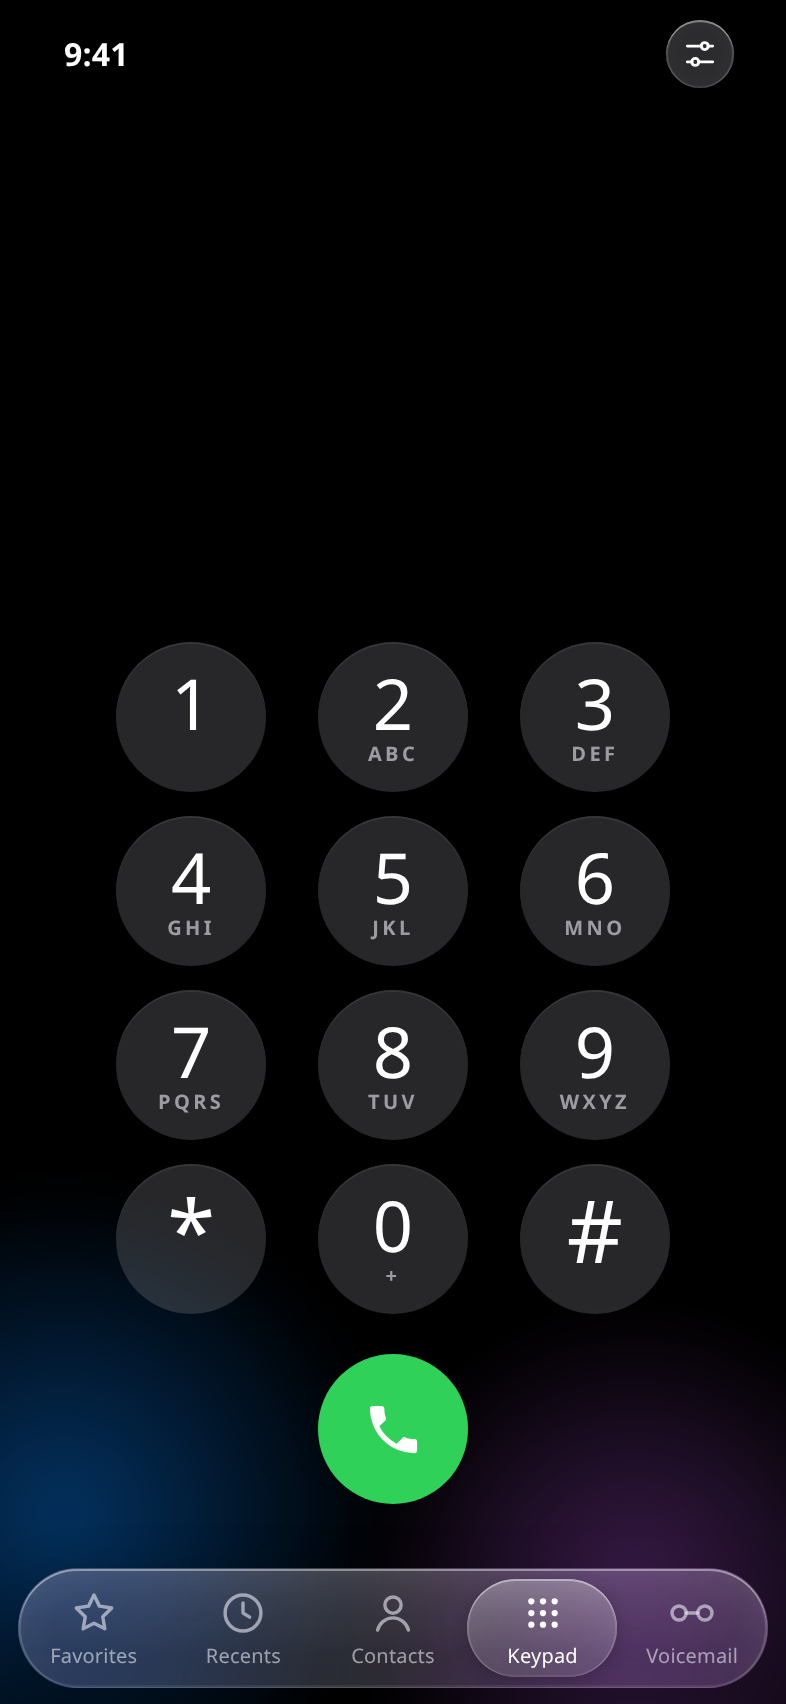
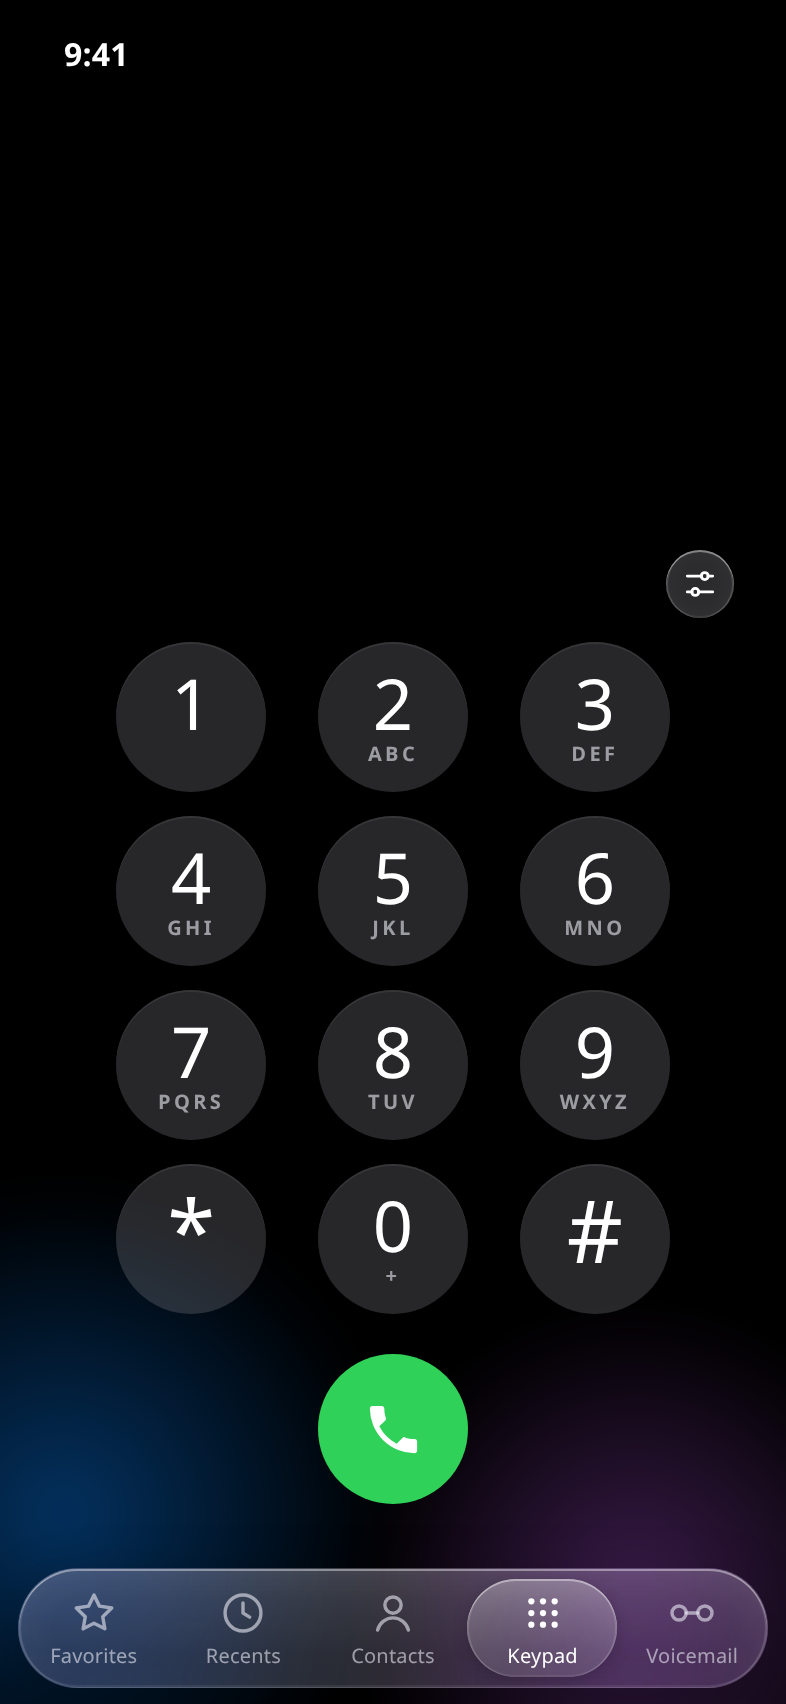
v2.3: move the glass settings button out of the status bar to sit above the keypad

Changed region(s): [[0.855, 0.311, 0.9466, 0.3732], [0.855, 0.0, 0.9466, 0.0622]]

diff --git a/android/assets/index.html b/android/assets/index.html
@@ -482,6 +482,8 @@ button{font-family:inherit;color:inherit}
 .app::before{opacity:var(--g-glow)}
 @media (prefers-color-scheme:light){.app::before{opacity:calc(var(--g-glow)*.55)}}
 
+#v-keypad .keypad-tools{width:100%;flex:none;display:flex;justify-content:flex-end;padding:0 2px 12px;margin-top:auto}
+#v-keypad .pad{margin-top:0}
 .gear{
   width:34px;height:34px;border:0;border-radius:50%;background:var(--fill);color:var(--label);
   display:grid;place-items:center;cursor:pointer;
@@ -534,7 +536,6 @@ button{font-family:inherit;color:inherit}
 
   <div class="statusbar">
     <span class="time" id="clock">9:41</span>
-    <button class="gear" id="gear" aria-label="Liquid Glass settings"><svg viewBox="0 0 24 24"><path d="M4 7h9M17 7h3M4 17h3M11 17h9"/><circle cx="15" cy="7" r="2.2"/><circle cx="9" cy="17" r="2.2"/></svg></button>
   </div>
 
   <main class="app" id="app" data-view="keypad">
@@ -545,6 +546,9 @@ button{font-family:inherit;color:inherit}
         <div class="number" id="num" aria-live="polite"></div>
         <button class="match" id="match"><span class="av" id="matchAv"></span><span class="mn" id="matchName"></span></button>
         <button class="addnum" id="addnum">Add Number</button>
+      </div>
+      <div class="keypad-tools">
+        <button class="gear" id="gear" aria-label="Liquid Glass settings"><svg viewBox="0 0 24 24"><path d="M4 7h9M17 7h3M4 17h3M11 17h9"/><circle cx="15" cy="7" r="2.2"/><circle cx="9" cy="17" r="2.2"/></svg></button>
       </div>
       <div class="pad" id="pad"></div>
       <div class="callrow">

diff --git a/index.html b/index.html
@@ -482,6 +482,8 @@ button{font-family:inherit;color:inherit}
 .app::before{opacity:var(--g-glow)}
 @media (prefers-color-scheme:light){.app::before{opacity:calc(var(--g-glow)*.55)}}
 
+#v-keypad .keypad-tools{width:100%;flex:none;display:flex;justify-content:flex-end;padding:0 2px 12px;margin-top:auto}
+#v-keypad .pad{margin-top:0}
 .gear{
   width:34px;height:34px;border:0;border-radius:50%;background:var(--fill);color:var(--label);
   display:grid;place-items:center;cursor:pointer;
@@ -534,7 +536,6 @@ button{font-family:inherit;color:inherit}
 
   <div class="statusbar">
     <span class="time" id="clock">9:41</span>
-    <button class="gear" id="gear" aria-label="Liquid Glass settings"><svg viewBox="0 0 24 24"><path d="M4 7h9M17 7h3M4 17h3M11 17h9"/><circle cx="15" cy="7" r="2.2"/><circle cx="9" cy="17" r="2.2"/></svg></button>
   </div>
 
   <main class="app" id="app" data-view="keypad">
@@ -545,6 +546,9 @@ button{font-family:inherit;color:inherit}
         <div class="number" id="num" aria-live="polite"></div>
         <button class="match" id="match"><span class="av" id="matchAv"></span><span class="mn" id="matchName"></span></button>
         <button class="addnum" id="addnum">Add Number</button>
+      </div>
+      <div class="keypad-tools">
+        <button class="gear" id="gear" aria-label="Liquid Glass settings"><svg viewBox="0 0 24 24"><path d="M4 7h9M17 7h3M4 17h3M11 17h9"/><circle cx="15" cy="7" r="2.2"/><circle cx="9" cy="17" r="2.2"/></svg></button>
       </div>
       <div class="pad" id="pad"></div>
       <div class="callrow">

diff --git a/README.md b/README.md
@@ -83,7 +83,7 @@ manifest.webmanifest     PWA manifest
 sw.js                    service worker (offline cache)
 icons/                   app icons (180 / 192 / 512)
 screenshots/             rendered from index.html
-apk/Phone-Dialer.apk     signed, installable build (v2.2)
+apk/Phone-Dialer.apk     signed, installable build (v2.3)
 android/                 native app source
   AndroidManifest.xml    permissions, dialer role, InCallService
   src/com/phone/dialer/
@@ -109,7 +109,7 @@ android/                 native app source
 | App name | Phone |
 | Package name / App ID | `com.phone.dialer` |
 | Category | Utility |
-| Version | 2.2 (versionCode 5) |
+| Version | 2.3 (versionCode 6) |
 | Minimum Android | 7.0 (API 24) |
 | Price | Free |
 | Icon | https://raw.githubusercontent.com/technicalnihilist-lgtm/ios-phone-dialer/main/icons/icon-512.png |
